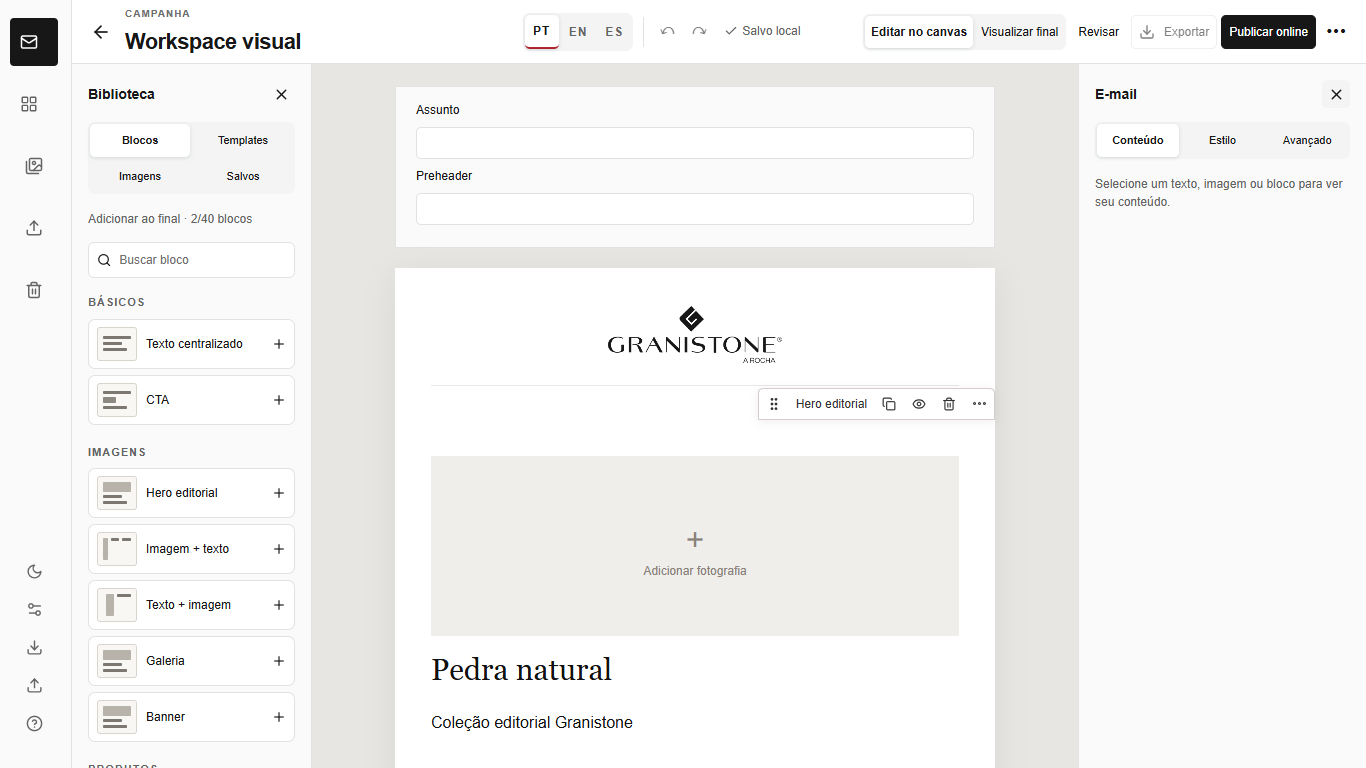
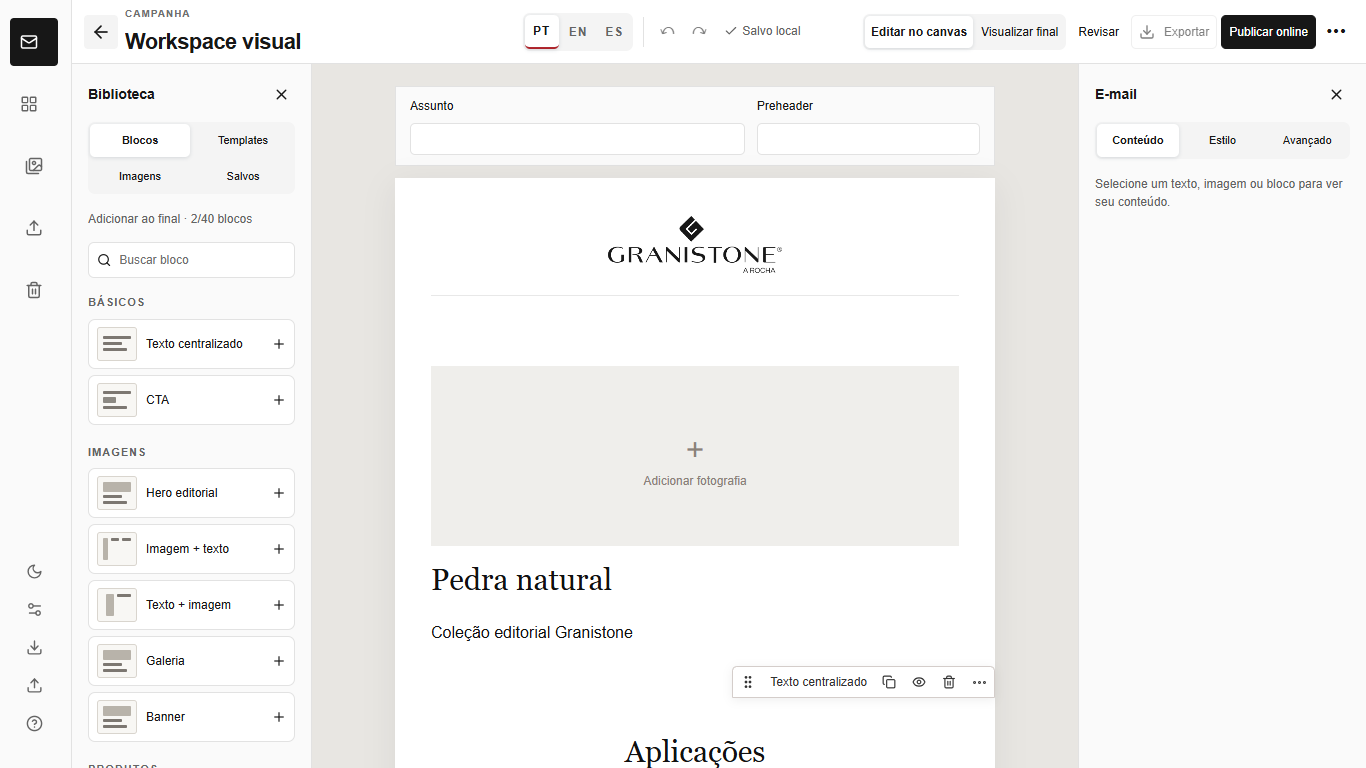
Compact message metadata to expose more canvas

diff --git a/tests/browser/workspace-layout.spec.ts b/tests/browser/workspace-layout.spec.ts
@@ -21,6 +21,7 @@ for (const [width, height] of [[1440, 900], [1366, 768], [1920, 1080]] as const)
     await expect(page.locator('.visual-workspace-bar')).toHaveCount(0);
     expect(await header.evaluate(node => Math.round(node.getBoundingClientRect().height))).toBe(64);
     await expect(page.locator('.visual-email')).toHaveCSS('width', '600px');
+    expect(await page.locator('.visual-email').evaluate(node => Math.round(node.getBoundingClientRect().top))).toBeLessThan(200);
     await page.getByRole('button', { name: 'Abrir biblioteca' }).click();
     await page.getByRole('button', { name: 'Abrir propriedades' }).click();
     await expect(page.getByRole('complementary', { name: 'Propriedades do elemento' })).toBeVisible();
@@ -28,6 +29,7 @@ for (const [width, height] of [[1440, 900], [1366, 768], [1920, 1080]] as const)
     await expect(page.locator('.visual-email')).toHaveCSS('width', '600px');
     expect(await stage.evaluate(node => node.scrollHeight > node.clientHeight)).toBeTruthy();
     expect(await page.evaluate(() => document.documentElement.scrollWidth <= innerWidth)).toBeTruthy();
+    await page.mouse.move(100, 32);
     await page.screenshot({ path: `docs/screenshots/depois-${width}x${height}.png` });
     const title = page.locator('.visual-email').getByRole('textbox', { name: 'Título do bloco', exact: true }).first();
     await title.fill('Título atualizado');
@@ -88,6 +90,9 @@ test('shared edit lease remains compact and permission-aware at notebook width',
   await page.route('**/api/**', async route => route.fulfill({ response: await route.fetch({ headers: { ...route.request().headers(), ...auth } }) }));
   await page.setViewportSize({ width: 1366, height: 768 });
   await page.goto('/');
+  await expect(page.getByRole('button', { name: campaign.title, exact: true })).toBeVisible();
+  const migration = page.getByRole('button', { name: 'Manter somente local por enquanto' });
+  if (await migration.isVisible()) await migration.click();
   await page.getByRole('button', { name: campaign.title, exact: true }).click();
   const lease = page.locator('.editor-heading .edit-lease-bar');
   await expect(lease).toContainText('Somente leitura');
@@ -96,6 +101,7 @@ test('shared edit lease remains compact and permission-aware at notebook width',
   await expect(lease).toContainText('Em edição');
   await expect(page.locator('.visual-email').getByRole('textbox', { name: 'Título do bloco', exact: true }).first()).toHaveAttribute('contenteditable', 'true');
   expect(await page.evaluate(() => document.documentElement.scrollWidth <= innerWidth)).toBeTruthy();
+  await page.mouse.move(100, 32);
   await page.screenshot({ path: 'docs/screenshots/depois-colaboracao-1366x768.png' });
   await lease.getByRole('button', { name: 'Salvar e encerrar edição' }).click();
   await expect(lease).toContainText('Somente leitura');

diff --git a/app/canvas.css b/app/canvas.css
@@ -107,8 +107,8 @@
 .canvas-inspector .image-current { flex-wrap: wrap; }
 .canvas-inspector input[type=range] { display: block; width: 100%; margin: 12px 0 24px; }
 .visual-stage { flex: 1; min-width: 0; overflow: auto; padding: 22px 20px 60px; background: #e8e6e2; }
-.canvas-envelope { width: 600px; margin: 0 auto 20px; padding: 14px 20px; background: var(--granistone-surface); border: 1px solid var(--granistone-line); }
-.canvas-envelope .field { margin: 0 0 8px; }
+.canvas-envelope { width: 600px; margin: 0 auto 12px; padding: 10px 14px; display: grid; grid-template-columns: 3fr 2fr; gap: 12px; background: var(--granistone-surface); border: 1px solid var(--granistone-line); }
+.canvas-envelope .field { min-width: 0; margin: 0; }
 .canvas-envelope input { font-size: 12px; padding: 6px 8px; }
 .visual-email { width: 600px; margin: 0 auto; background: white; box-shadow: 0 8px 32px #00000012; font: 16px/1.7 Arial,sans-serif; color: #111; }
 .visual-email table { width: 100%; border-collapse: collapse; }

diff --git a/docs/WORKSPACE-PRODUCAO.md b/docs/WORKSPACE-PRODUCAO.md
@@ -7,7 +7,7 @@ Implementação na branch `codex/workspace-production-ux`, partindo da versão p
 - O breadcrumb, a faixa de sincronização, o banner azul de sessão e as duas barras do editor foram reunidos em um único cabeçalho de 64 px. Nome da campanha editável, sessão, idioma, histórico local, salvamento, modos, revisão, exportação e publicação ficam agrupados por função. Histórico de versões, sincronização manual, status, duplicação, templates e configurações avançadas ficam no menu Mais.
 - A sessão de edição usa o mesmo mecanismo de permissões e bloqueio colaborativo. O estado aparece ao lado do nome; iniciar e encerrar a sessão continuam disponíveis no cabeçalho. Erros e avisos que exigem ação continuam visíveis.
 - A biblioteca lateral ganhou busca, seis categorias, cartões com miniaturas esquemáticas e abas Blocos, Templates, Imagens e Salvos. A seleção de imagens reutiliza a biblioteca de arquivos e materiais existente. Ações de templates continuam abrindo a configuração de estrutura da campanha, evitando troca silenciosa de um modelo já preenchido.
-- O canvas conserva 600 px, rola separadamente e permanece montado ao abrir ou recolher os painéis. Duas barras laterais de ícones permitem abrir biblioteca e propriedades sem ocupar altura acima do e-mail.
+- O canvas conserva 600 px, rola separadamente e permanece montado ao abrir ou recolher os painéis. Assunto e preheader foram compactados lado a lado; duas barras laterais de ícones permitem abrir biblioteca e propriedades sem ocupar altura acima do e-mail.
 - O inspetor organiza Conteúdo, Estilo e Avançado em três abas. Selecionar texto mantém apenas a barra flutuante, sem abrir o painel. Selecionar imagem abre Conteúdo com o seletor, upload, URL, ALT e recorte existentes. Selecionar um bloco mostra ações básicas ao passar o mouse; mover por teclado, propriedades e salvar bloco ficam em Mais opções.
 - Sem seleção, o inspetor mostra apenas orientação contextual; os fundos gerais continuam acessíveis por uma ação explícita em Configurações avançadas.
 - Os controles usam tamanhos e contrastes mais legíveis. Em larguras menores, os rótulos de modo encurtam e ações secundárias passam ao menu Mais, mantendo o cabeçalho em uma linha.
@@ -21,7 +21,7 @@ Implementação na branch `codex/workspace-production-ux`, partindo da versão p
 
 ![Novo workspace em 1920 × 1080](screenshots/depois-1920x1080.png)
 
-As capturas usam campanhas de teste diferentes, portanto comparam a organização da interface. Antes, o canvas começava aproximadamente a 300 px do topo em 1366 × 768; agora começa a 64 px. São cerca de **236 px adicionais de área vertical** para a composição. As três novas capturas mostram os dois painéis abertos e o e-mail ainda com 600 px. Há uma captura adicional do estado colaborativo em `screenshots/depois-colaboracao-1366x768.png`.
+As capturas usam campanhas de teste diferentes, portanto comparam a organização da interface. Antes, o canvas começava aproximadamente a 300 px do topo em 1366 × 768; agora começa a 64 px. São cerca de **236 px adicionais de superfície de trabalho vertical**. A compactação de assunto e preheader também adianta o topo do e-mail para aproximadamente 178 px nesta captura. As três novas capturas mostram os dois painéis abertos e o e-mail ainda com 600 px. Há uma captura adicional do estado colaborativo em `screenshots/depois-colaboracao-1366x768.png`.
 
 ## Arquivos alterados
 
